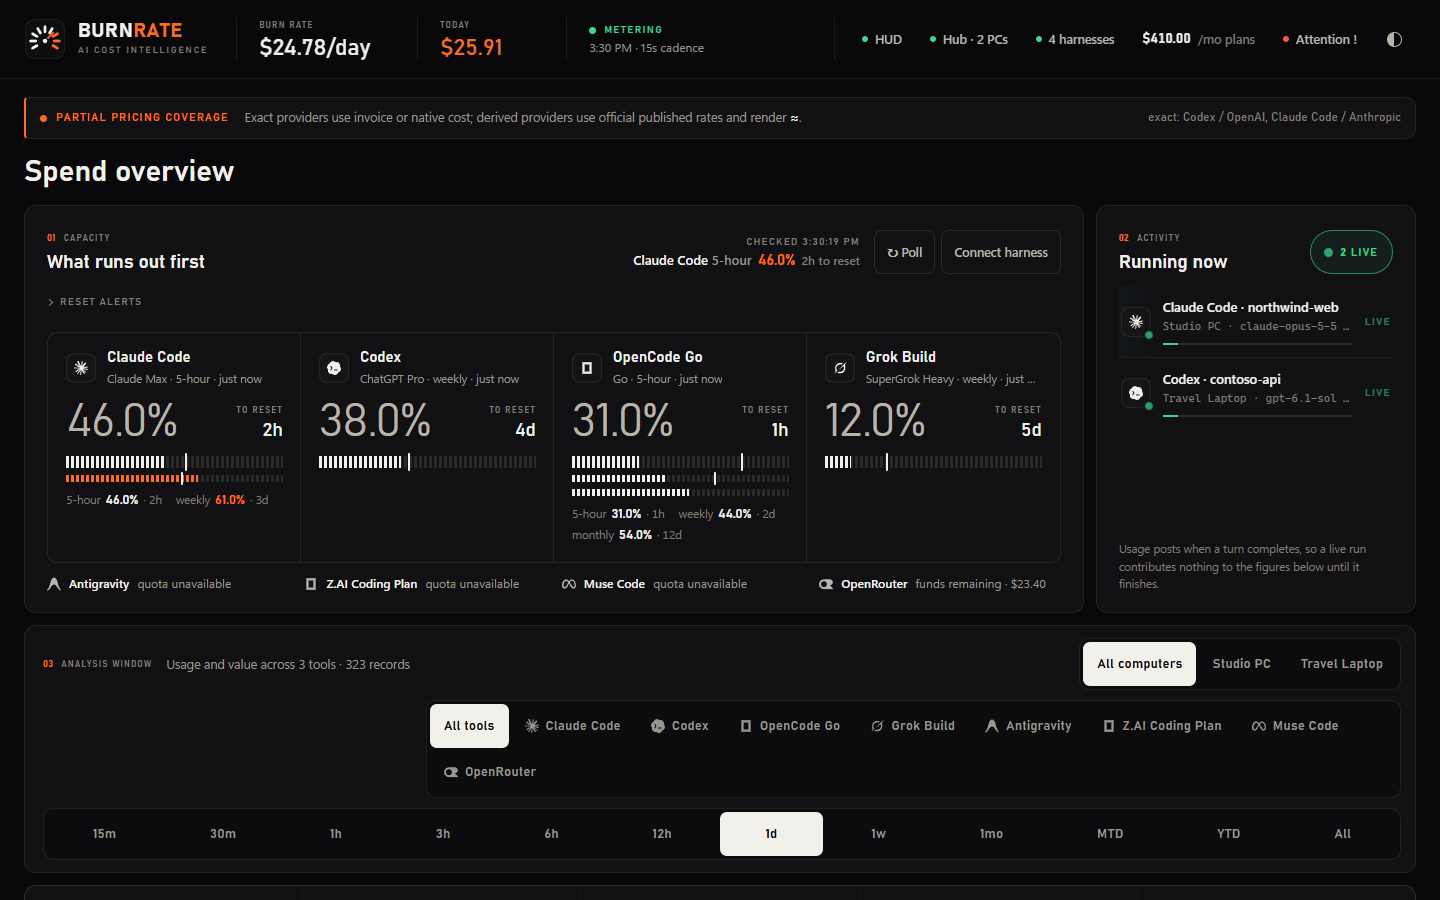
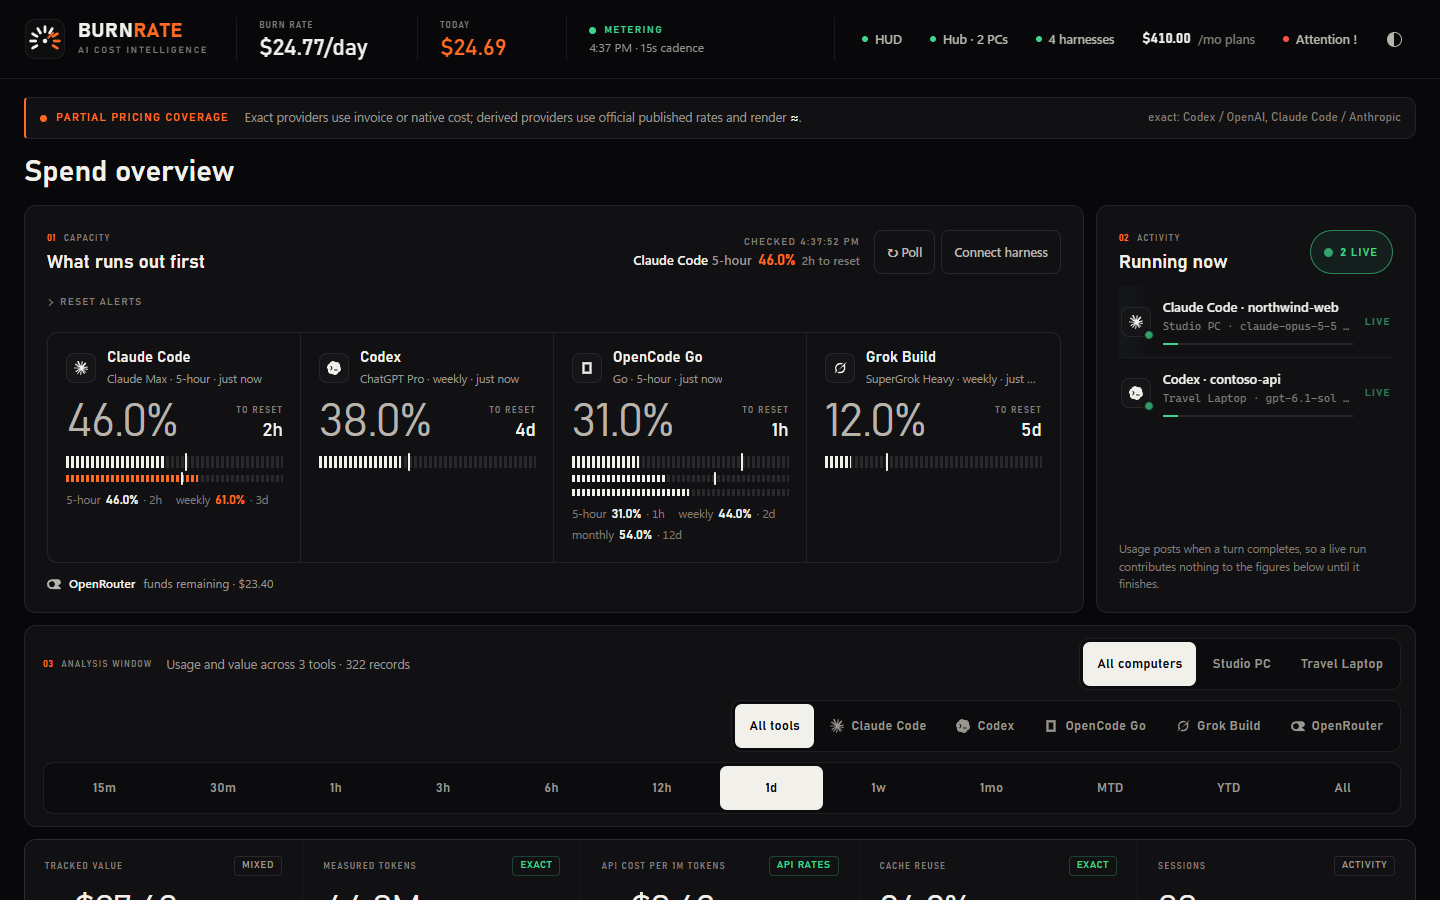
chore(release): v0.5.0
The first release with a downloadable installer for Windows, macOS and
Linux, automatic signed updates, the hub image, and the pricing
reconciliation. Release notes: docs/releases/RELEASE-0.5.0.md.

prod becomes the default branch and always points at the latest
published release (docs/releasing.md). README screenshots retaken from
this build.

diff --git a/spend_app/__init__.py b/spend_app/__init__.py
@@ -1,3 +1,3 @@
 """BURNRATE local-first AI usage and cost dashboard."""
 
-__version__ = "0.4.0-beta.1"
+__version__ = "0.5.0"

diff --git a/docs/releases/RELEASE-0.5.0.md b/docs/releases/RELEASE-0.5.0.md
@@ -1,0 +1,55 @@
+# BurnRate 0.5.0
+
+**The first BurnRate you can simply download and run.** BurnRate is a desktop meter for AI coding agents: it shows what your Claude Code, Codex, Grok Build, OpenCode and other sessions are worth at published API rates, and which of your plans runs out first, in a small window that stays on top. It runs entirely on your computer, with no account, no cloud service and no analytics.
+
+## Install
+
+| System | Download |
+| --- | --- |
+| Windows 10 or 11 (64-bit) | `BURNRATE_0.5.0_x64-setup.exe` |
+| macOS 11 or later, Apple Silicon | `BURNRATE_0.5.0_aarch64.dmg` |
+| Linux x86-64 | `BURNRATE_0.5.0_amd64.AppImage` or `BURNRATE_0.5.0_amd64.deb` |
+
+- **No Python, git or administrator rights needed.** The installer carries its own copy of the BurnRate service. The Windows installer installs for your account only.
+- **From the command line on Windows:** `scoop install https://github.com/kamol-nazarov/myBurnRate/releases/latest/download/myburnrate.json`
+- **Updates are automatic from here on.** BurnRate checks for a new version every few hours and offers it in the HUD and the tray menu. Each update is signed and verified before it installs.
+
+**Opening it the first time.** This release is not yet code-signed; signing through SignPath Foundation is in progress.
+
+- **Windows:** SmartScreen may show "Windows protected your PC". Choose **More info**, then **Run anyway**.
+- **macOS:** open **System Settings → Privacy & Security** and choose **Open Anyway** next to BURNRATE.
+- **Linux:** make the AppImage executable first.
+
+Every file below was built by GitHub Actions from the tagged commit, has a build provenance attestation, and is listed in `SHA256SUMS`. To check a download: `gh attestation verify <file> --repo kamol-nazarov/myBurnRate`.
+
+## What's new
+
+**One download, three systems**
+- Native installers for Windows, macOS (Apple Silicon) and Linux.
+- The app starts its own service, restarts it if it stops, and closes it when you quit.
+- Start at sign-in is on by default; switch it off from the tray.
+
+**Numbers you can trust**
+- **One stated method for every figure.** Each request is valued at the provider's published list price, including long-context tiers and peak-hour pricing. Tokens and dollars always cover the same requests. When some usage has no published price, the HUD shows the day's figure as a floor (`≥`) and names what is missing. See [the methodology](https://github.com/kamol-nazarov/myBurnRate/blob/prod/docs/pricing.md#methodology).
+- **Grok Build is counted once.** Earlier versions counted each Grok Build turn twice. Upgrading removes the duplicates from your history, after first saving a backup of the database.
+- **New and corrected prices.** Added: GPT-6.1 Terra, GPT-6 Sol, Grok 4.7, Grok 4.7 Fast and the DeepSeek API. Claude Sonnet 5.5 cache reads are corrected to $0.10 per million tokens.
+
+**A cleaner HUD**
+- **Cost per repository:** today's value split by the repository each session ran in.
+- **A shareable weekly card:** the share button copies an image of your last seven days (value against your plans, tokens, cache hit, top tools). It never includes repository names.
+- **Only the tools you use:** a tool with no usage, no plan and no meter reading no longer gets an empty "quota unavailable" card.
+
+**Run your own hub**
+- A Docker image and Compose file, with HTTPS through Caddy, keep several computers in one view: `ghcr.io/kamol-nazarov/myburnrate-hub:0.5.0`. See [self-hosting](https://github.com/kamol-nazarov/myBurnRate/blob/prod/docs/self-hosting.md).
+
+**Privacy**
+- BurnRate no longer reads or reuses Claude's sign-in. Claude meters come from the plan usage Claude Code and Claude Desktop already cache on disk.
+
+## Upgrading
+
+- **From an earlier source install** (a clone with `install.ps1`):
+  1. Run `scripts\uninstall-burnrate.ps1`. It keeps your data.
+  2. Run the installer. Your history, plans and settings in `%LOCALAPPDATA%\BURNRATE` carry over.
+- **On a self-hosted hub:** update the hub as well. The hub then removes the duplicate Grok rows it received from older computers, also after a backup.
+
+The [changelog](https://github.com/kamol-nazarov/myBurnRate/blob/prod/CHANGELOG.md) lists every change.

diff --git a/docs/burnrate-pricing-reconciliation-oct26.md b/docs/burnrate-pricing-reconciliation-oct26.md
@@ -198,14 +198,14 @@ Tests: `tests_spend/test_pricing_reconciliation.py` encodes this day: the peak-h
 
 ## Rolling it out
 
-Nothing is merged, deployed or restarted yet.
+The fixes ship in BurnRate 0.5.0. A computer or hub picks them up when it runs 0.5.0:
 
 1. **This PC.**
-   - Merge the branch into the checkout the desktop service runs from, then restart the service.
+   - Install 0.5.0, or update the checkout the desktop service runs from, then restart the service.
    - On start-up it backs up `spend.db` to `backups\pre-grok-dedupe-*.db`, removes the duplicate Grok rows, and re-reads Grok and OpenCode. Turn rows then gain Grok Build's charge and are pushed to the hub again.
    - Note: the "BURNRATE Dashboard" task runs `python -m spend_app.service` with `C:\Dev\myBurnRateOfficial` as its working directory, so it imports whatever that development checkout holds, even modules loaded mid-run. An installed copy would be safer.
 2. **The hub.**
-   - Deploy the same change to `release/0.4.0-beta.1` (the hub tracks that branch of `kamol-nazarov/myBurnRate`). The hub runs the same backup and dedupe on `/var/lib/burnrate/burnrate_hub.db`.
+   - Deploy 0.5.0 to it (`prod` of `kamol-nazarov/myBurnRate`). The hub runs the same backup and dedupe on `/var/lib/burnrate/burnrate_hub.db`.
    - The HUD card reads from the hub, so it stays wrong until the hub is updated.
    - The Grok cards and the dedupe must ship together. With only the cards, the hub would value its duplicate Grok rows twice.
 3. **`kamol-nazarov/burnrate`** is the older repository and nothing deploys from it; it needs no change.

diff --git a/docs/releasing.md b/docs/releasing.md
@@ -4,6 +4,17 @@ Releases are built only on GitHub Actions
 ([release workflow](../.github/workflows/release.yml)), never on a
 maintainer's computer, so every download traces back to a tagged commit.
 
+## Branches
+
+- **`prod`** is the default branch. It always points at the latest published
+  release, so the repository's front page, the README and the links in release
+  notes describe what people actually download.
+- **`main`** collects finished work. Feature branches merge into `main`;
+  releases are tagged from it.
+- `prod` only moves forward, to a published release tag (step 7 below).
+
+## Steps
+
 1. Bump the version in these files:
    - `pyproject.toml` (PEP 440, for example `0.4.0b2`);
    - `spend_app/__init__.py`;
@@ -25,7 +36,9 @@ maintainer's computer, so every download traces back to a tagged commit.
 6. Check the draft and publish it as the latest release. Installed apps find
    the update within about six hours, or at once from the tray's **Check for
    updates**.
-7. Command-line installs:
+7. Move `prod` to the release: `git push origin v<version>^{commit}:refs/heads/prod`
+   (a fast-forward; it fails rather than rewrite history).
+8. Command-line installs:
    - **Scoop** needs nothing more. The release carries `myburnrate.json`, so
      `scoop install https://github.com/kamol-nazarov/myBurnRate/releases/latest/download/myburnrate.json`
      installs the latest release.

diff --git a/README.md b/README.md
@@ -12,7 +12,7 @@ account, no cloud and no analytics.
 [![License: Apache-2.0](https://img.shields.io/badge/license-Apache--2.0-blue)](LICENSE)
 
 <p align="center">
-  <img src="docs/images/hud.png" width="380" alt="The BURNRATE HUD: $25.91 of usage today, a burn rate of $25 a day, 95% cache hit, and meters for Claude, OpenCode Go, Codex and Grok plans">
+  <img src="docs/images/hud.png" width="380" alt="The BURNRATE HUD: $24.69 of usage today, a burn rate of $25 a day, 95% cache hit, and meters for Claude, OpenCode Go, Codex and Grok plans">
 </p>
 
 <p align="center"><sub>Screenshots use the made-up data from <code>burnrate demo</code>.</sub></p>
@@ -28,7 +28,7 @@ account, no cloud and no analytics.
 - **Pay-as-you-go balances** (OpenRouter, DeepSeek) with how many days they last at your current spend.
 
 <p align="center">
-  <img src="docs/images/week-card.png" width="600" alt="A weekly card: $167 of AI coding at published API rates on $93 of plans, 1.8 times the plan cost, with the top tools">
+  <img src="docs/images/week-card.png" width="600" alt="A weekly card: $165 of AI coding at published API rates on $93 of plans, 1.8 times the plan cost, with the top tools">
 </p>
 
 ## Download

diff --git a/CHANGELOG.md b/CHANGELOG.md
@@ -9,6 +9,8 @@ This project is licensed under Apache-2.0.
 
 ## [Unreleased]
 
+## [0.5.0] - 2026-10-26
+
 ### Added
 
 - A real installer. The desktop app now ships its own copy of the BURNRATE
@@ -46,6 +48,8 @@ This project is licensed under Apache-2.0.
 - A weekly workflow lists price cards that need a person's attention (a price
   window ending soon, or an OpenRouter price that moved) in one open issue. It
   never edits a card.
+- A rate card for GPT-6.1 Terra ($1 input, $0.05 cached, $1.25 cache write,
+  $5 output per million tokens; 2x / 1.5x above 272K input tokens).
 
 ### Changed
 
@@ -65,6 +69,10 @@ This project is licensed under Apache-2.0.
   `cost`) no longer outranks the published card; a provider's own charge still
   does. Rate cards can price peak hours, and the DeepSeek V4.1 Flash and V4
   Pro cards do.
+- The HUD and dashboard show a capacity card only for a tool in use: one that
+  has given a real meter reading, recorded usage in the last 30 days, or has
+  an active plan. A tool that is not installed no longer shows an empty
+  "quota unavailable" card; a used tool whose meter is missing still does.
 
 ### Fixed
 
